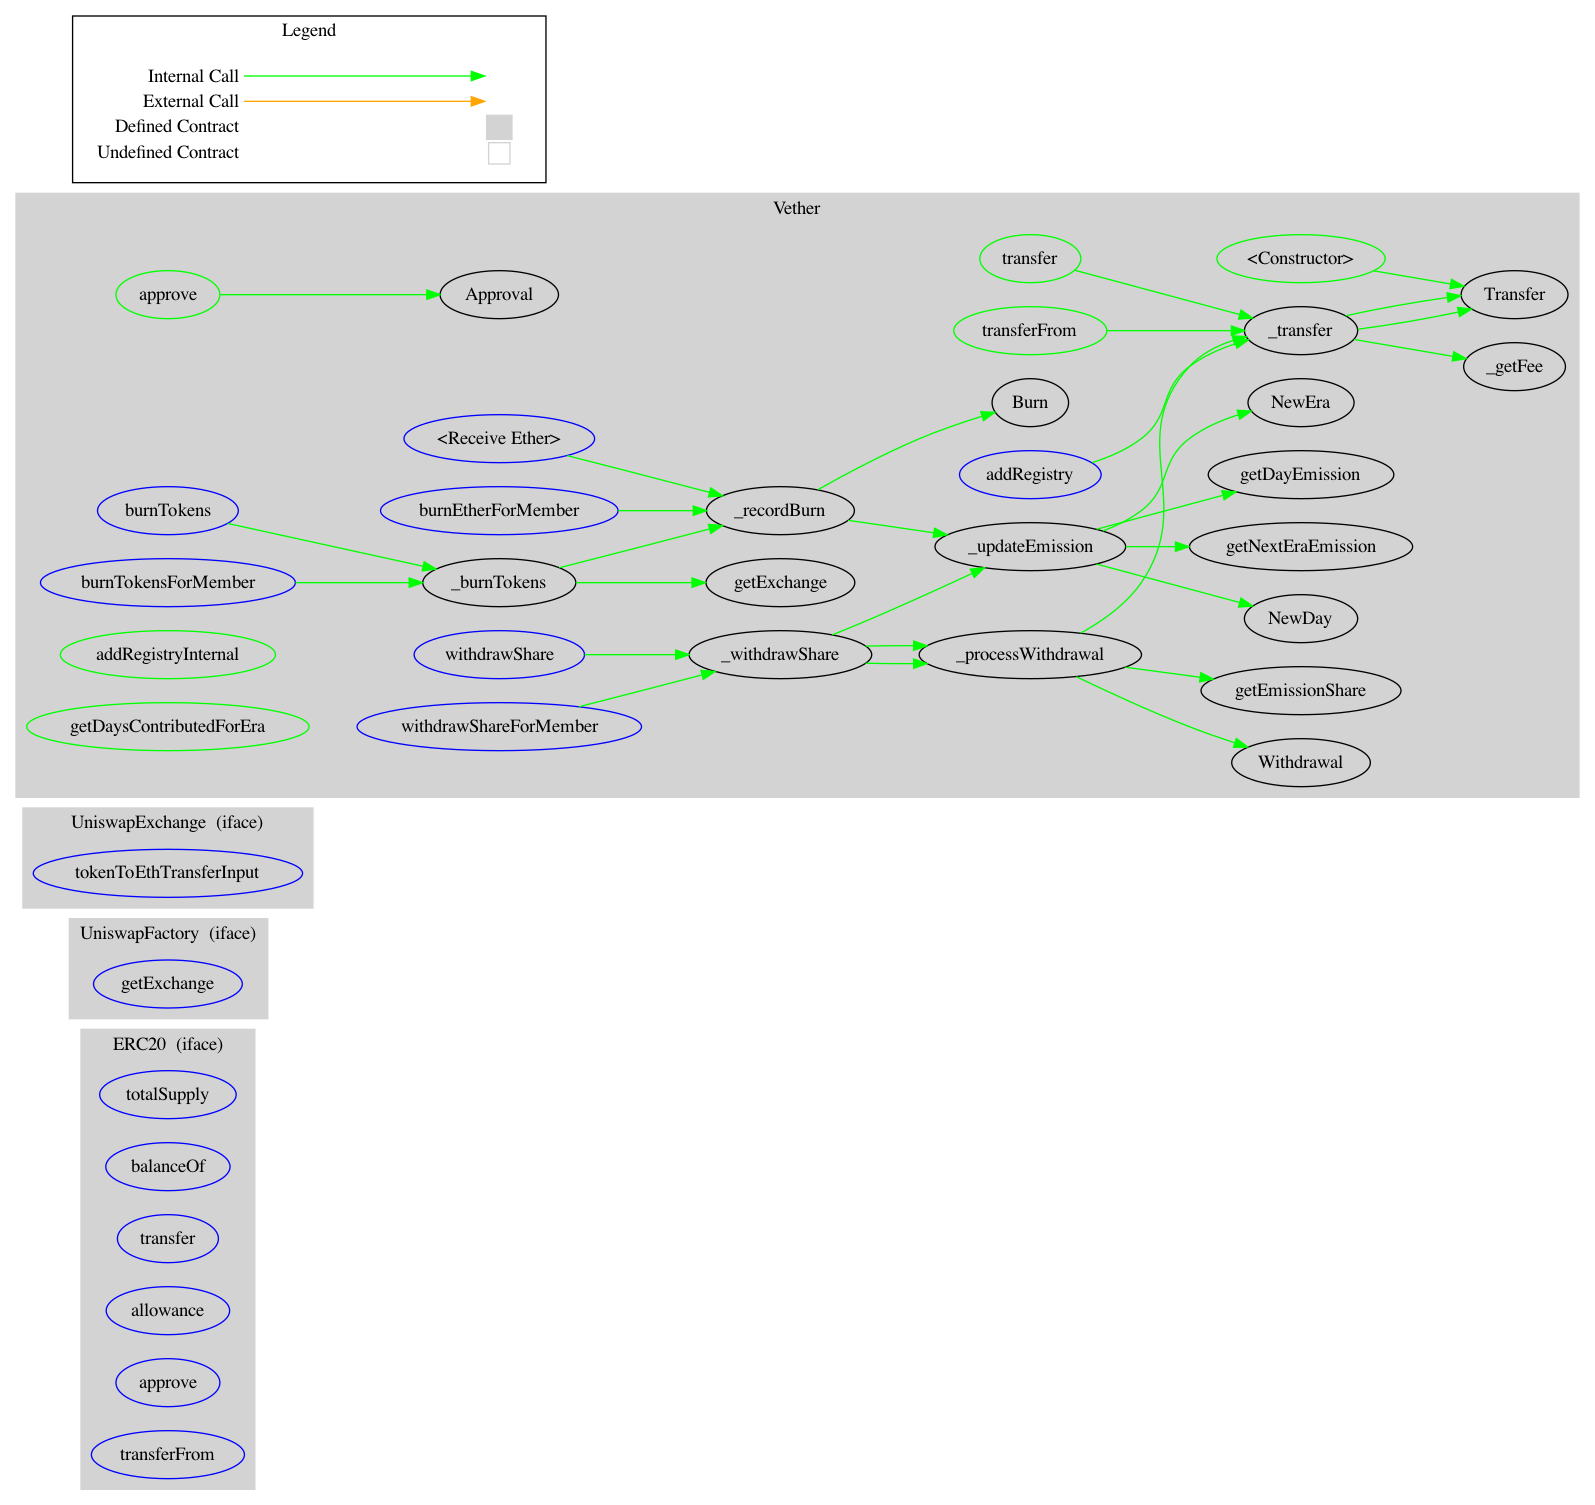
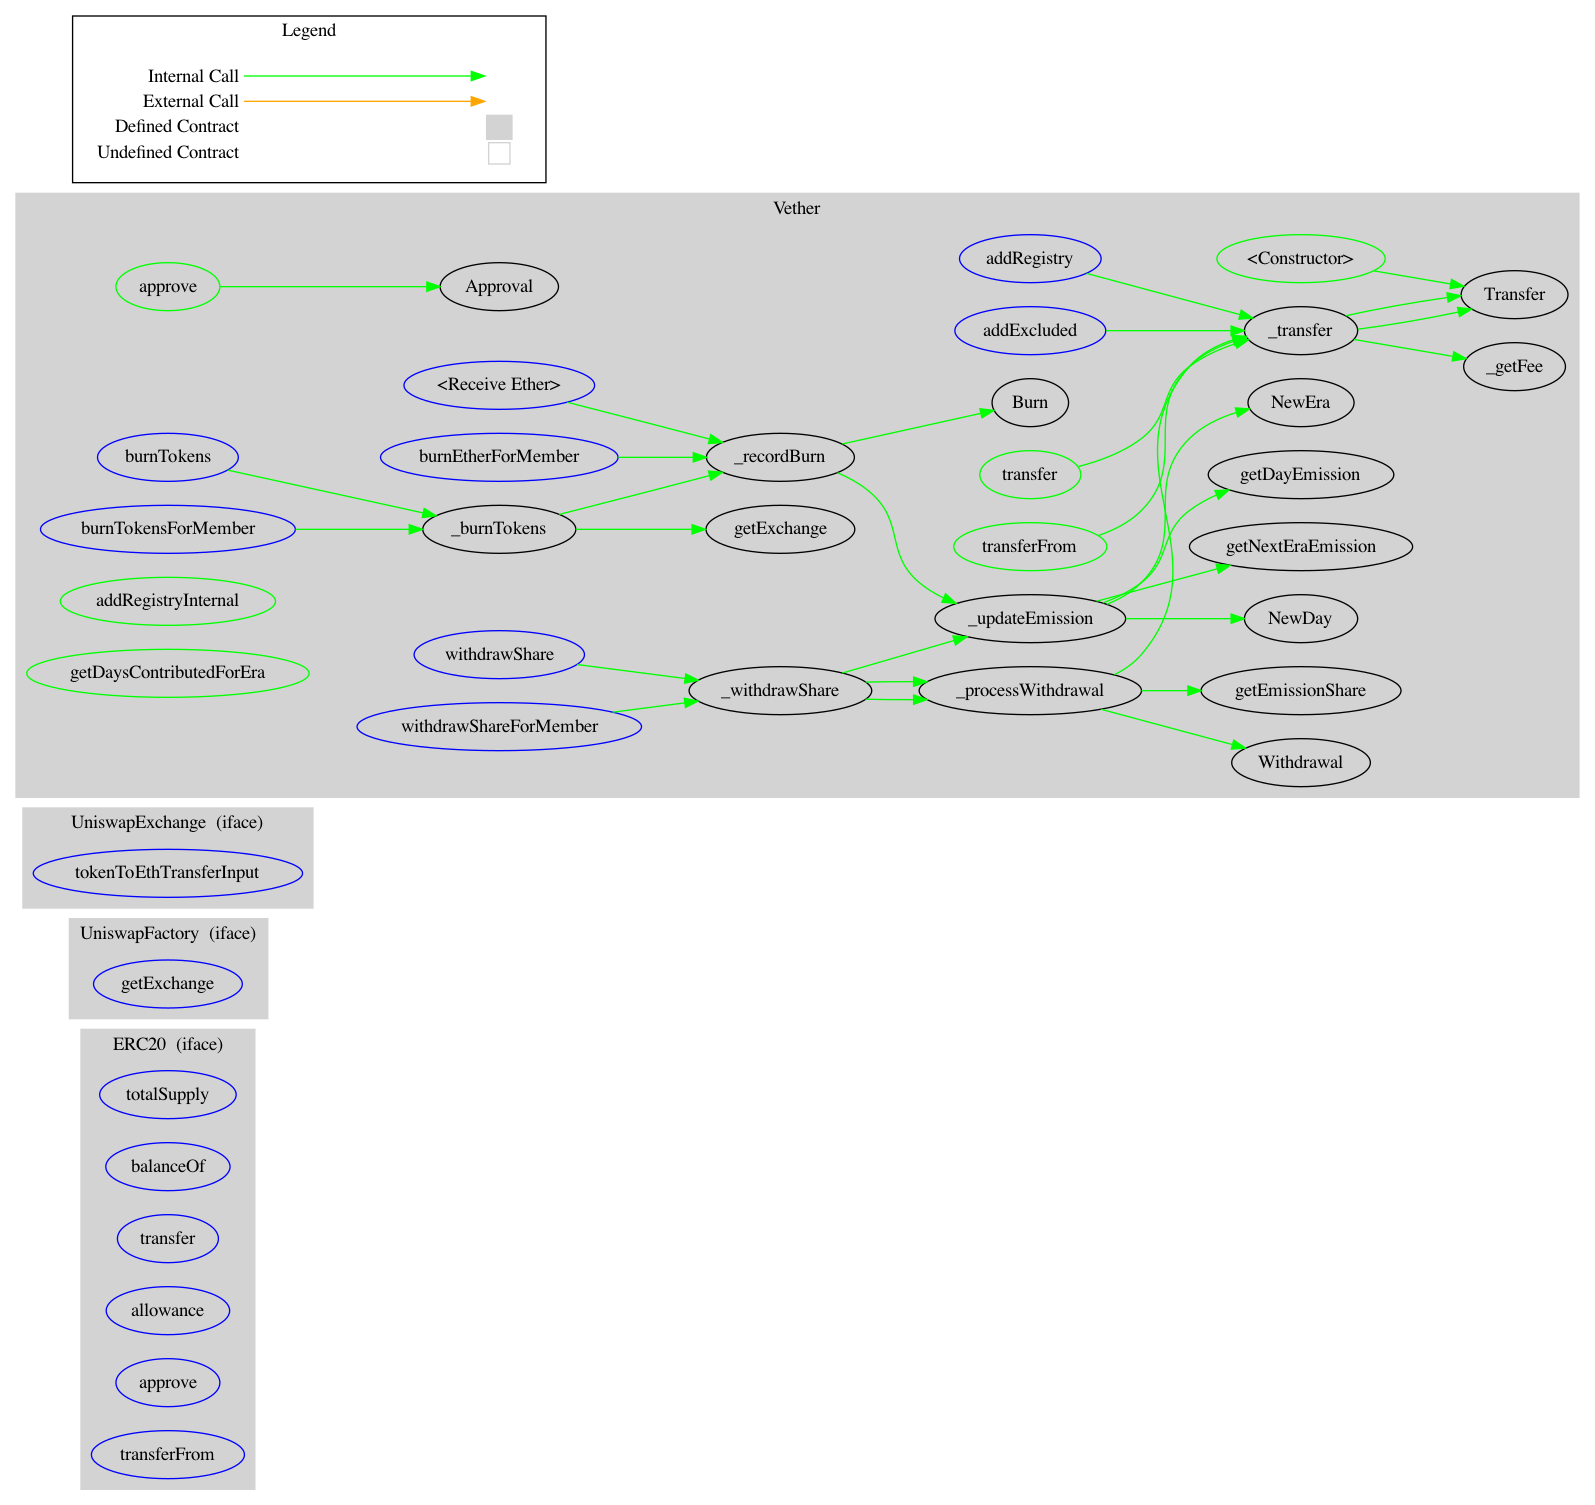
update readme

diff --git a/README.md b/README.md
@@ -42,7 +42,7 @@ uint256 public currentEra; uint256 public currentDay;
 uint256 public daysPerEra; uint256 public secondsPerDay;
 uint256 public genesis; uint256 public nextEraTime; uint256 public nextDayTime;
 address payable public burnAddress;
-address[2] public registryAddrArray; bool public registryAdded;
+address[2] public registryAddrArray; bool public lockMutable;
 uint256 public totalFees; uint256 public totalBurnt;
 
 // Public Mappings
@@ -53,6 +53,7 @@ mapping(uint256=>mapping(uint256=>uint256)) public mapEraDay_Emission;
 mapping(uint256=>mapping(uint256=>uint256)) public mapEraDay_EmissionRemaining;
 mapping(uint256=>mapping(uint256=>mapping(address=>uint256))) public mapEraDay_MemberUnits;
 mapping(address=>mapping(uint256=>uint[])) public mapMemberEra_Days; 
+mapping(address=>bool) public mapAddress_Excluded;
 
 // Public Get Functions
 function getExchange(address token ) public view returns (address)
@@ -70,6 +71,7 @@ function burnEtherForMember(address member) external payable
 function burnTokens(address token, uint256 amount) external
 function burnTokensForMember(address token, uint256 amount, address member) external 
 function addRegistry(address registry, uint256 index) external
+function addExcluded(address excuded) external
 function withdrawShare(uint256 era, uint256 day) external 
 function withdrawShareForMember(uint256 era, uint256 day, address member) external
 ```
@@ -154,7 +156,7 @@ truffle test test/1_coin.js
 
 ## Analysis
 
-Find in `analysis`
+Find in [/analysis](https://github.com/vetherasset/vether-contracts/blob/master/analysis)
 ```
 yarn analysis
 ```
@@ -169,12 +171,12 @@ surya graph contracts/Vether.sol | dot -Tpng > analysis/Vether-Graph.png
 surya inheritance contracts/Vether.sol | dot -Tpng > analysis/Vether-Inheritance.png
 ```
 
-### [Description Report](https://github.com/vetherasset/vether-contracts/blob/master/analysis/report_vether.md)
+### [Description Report](https://github.com/vetherasset/vether-contracts/blob/master/analysis/Vether-Report.md)
 ```
-surya mdreport analysis/report_vether.md contracts/Vether.sol
+surya mdreport analysis/Vether-Report.md contracts/Vether.sol
 ```
 
-Describe
+### [Describe - Raw](https://github.com/vetherasset/vether-contracts/blob/master/analysis/Vether-Describe.md)
 ```
 surya describe contracts/Vether.sol
 ```

diff --git a/analysis/Vether-Report.md b/analysis/Vether-Report.md
@@ -5,7 +5,7 @@
 
 |  File Name  |  SHA-1 Hash  |
 |-------------|--------------|
-| contracts/Vether.sol | 72816a44dc0ca1d8c050352efed1c5453d828ec5 |
+| contracts/Vether.sol | 0142e3af833910907ac975b6d1edae3aa960ea36 |
 
 
 ### Contracts Description Table
@@ -34,16 +34,17 @@
 | └ | transfer | Public ❗ | 🛑  |NO❗ |
 | └ | approve | Public ❗ | 🛑  |NO❗ |
 | └ | transferFrom | Public ❗ | 🛑  |NO❗ |
-| └ | _transfer | Internal 🔒 | 🛑  | |
+| └ | _transfer | Private 🔐 | 🛑  | |
 | └ | _getFee | Private 🔐 |   | |
 | └ | <Receive Ether> | External ❗ |  💵 |NO❗ |
 | └ | burnEtherForMember | External ❗ |  💵 |NO❗ |
 | └ | burnTokens | External ❗ | 🛑  |NO❗ |
 | └ | burnTokensForMember | External ❗ | 🛑  |NO❗ |
-| └ | _burnTokens | Internal 🔒 | 🛑  | |
+| └ | _burnTokens | Private 🔐 | 🛑  | |
 | └ | getExchange | Public ❗ |   |NO❗ |
-| └ | _recordBurn | Internal 🔒 | 🛑  | |
+| └ | _recordBurn | Private 🔐 | 🛑  | |
 | └ | addRegistry | External ❗ | 🛑  |NO❗ |
+| └ | addExcluded | External ❗ | 🛑  |NO❗ |
 | └ | addRegistryInternal | Public ❗ | 🛑  |NO❗ |
 | └ | getDaysContributedForEra | Public ❗ |   |NO❗ |
 | └ | withdrawShare | External ❗ | 🛑  |NO❗ |

diff --git a/analysis/Vether-Describe.md b/analysis/Vether-Describe.md
@@ -1,0 +1,44 @@
++ [Int] ERC20 
+    - [Ext] totalSupply
+    - [Ext] balanceOf
+    - [Ext] transfer #
+    - [Ext] allowance
+    - [Ext] approve #
+    - [Ext] transferFrom #
+
+ + [Int] UniswapFactory 
+    - [Ext] getExchange
+
+ + [Int] UniswapExchange 
+    - [Ext] tokenToEthTransferInput #
+
+ +  Vether (ERC20)
+    - [Pub] <Constructor> #
+    - [Pub] transfer #
+    - [Pub] approve #
+    - [Pub] transferFrom #
+    - [Prv] _transfer #
+    - [Prv] _getFee
+    - [Ext] <Fallback> ($)
+    - [Ext] burnEtherForMember ($)
+    - [Ext] burnTokens #
+    - [Ext] burnTokensForMember #
+    - [Prv] _burnTokens #
+    - [Pub] getExchange
+    - [Prv] _recordBurn #
+    - [Ext] addRegistry #
+    - [Ext] addExcluded #
+    - [Pub] addRegistryInternal #
+    - [Pub] getDaysContributedForEra
+    - [Ext] withdrawShare #
+    - [Ext] withdrawShareForMember #
+    - [Prv] _withdrawShare #
+    - [Prv] _processWithdrawal #
+    - [Pub] getEmissionShare
+    - [Prv] _updateEmission #
+    - [Pub] getNextEraEmission
+    - [Pub] getDayEmission
+
+
+ ($) = payable function
+ # = non-constant function
